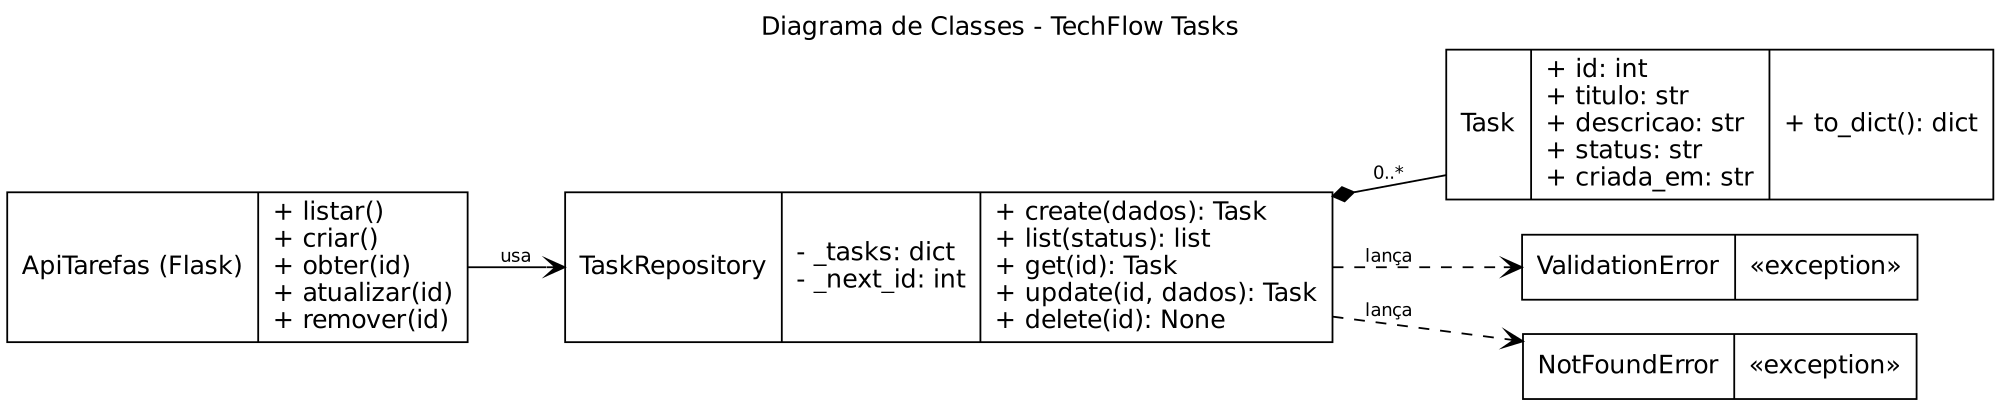
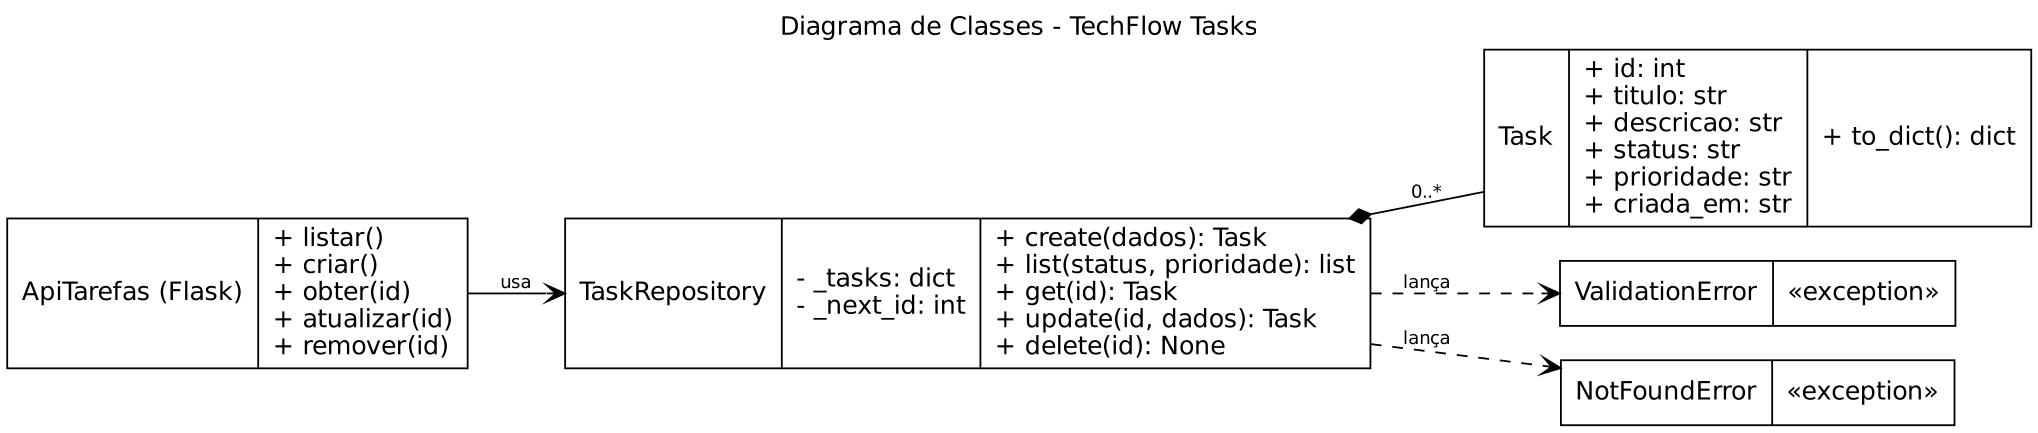
docs: atualiza diagramas UML e README após a mudança de escopo

Changed region(s): [[0.0, 0.0885, 1.0, 0.9435], [0.3718, 0.0295, 0.6197, 0.0885], [0.7746, 0.973, 0.9605, 1.0]]

diff --git a/README.md b/README.md
@@ -16,6 +16,7 @@ em um quadro Kanban, com código testado automaticamente a cada alteração.
 
 **Dentro do escopo**
 - CRUD de tarefas (criar, listar, atualizar e excluir).
+- *(Adicionado na mudança de escopo #1)* Prioridade das tarefas, com filtro e ordenação.
 - Três estados de fluxo: *A Fazer*, *Em Progresso* e *Concluído*.
 - Interface web com quadro Kanban e API REST em JSON.
 - Testes automatizados e integração contínua (GitHub Actions).
@@ -32,6 +33,30 @@ Abordagem **ágil híbrida (Scrumban)**:
 - **Iterações curtas** de planejamento e revisão (cerimônias leves do Scrum).
 - **Commits pequenos e semânticos** (`feat`, `fix`, `test`, `docs`, `ci`, `chore`).
 - **Integração contínua**: todo push executa lint e testes no GitHub Actions.
+
+## API REST
+
+| Método | Rota | Descrição |
+|--------|------|-----------|
+| GET | `/api/tasks?status=&prioridade=` | Lista tarefas (mais prioritárias primeiro) |
+| POST | `/api/tasks` | Cria tarefa (`titulo`, `descricao`, `status`, `prioridade`) |
+| GET | `/api/tasks/<id>` | Busca uma tarefa |
+| PUT | `/api/tasks/<id>` | Atualiza campos da tarefa |
+| DELETE | `/api/tasks/<id>` | Exclui a tarefa |
+
+## Estrutura do repositório
+
+```
+src/techflow/   código (models, repository, app, templates)
+tests/          testes automatizados (pytest)
+docs/           diagramas UML, Kanban e roteiro do vídeo
+.github/        workflow de integração contínua
+```
+
+## Diagramas UML
+
+![Casos de uso](docs/diagrama_casos_de_uso.png)
+![Classes](docs/diagrama_classes.png)
 
 ## Como executar
 
